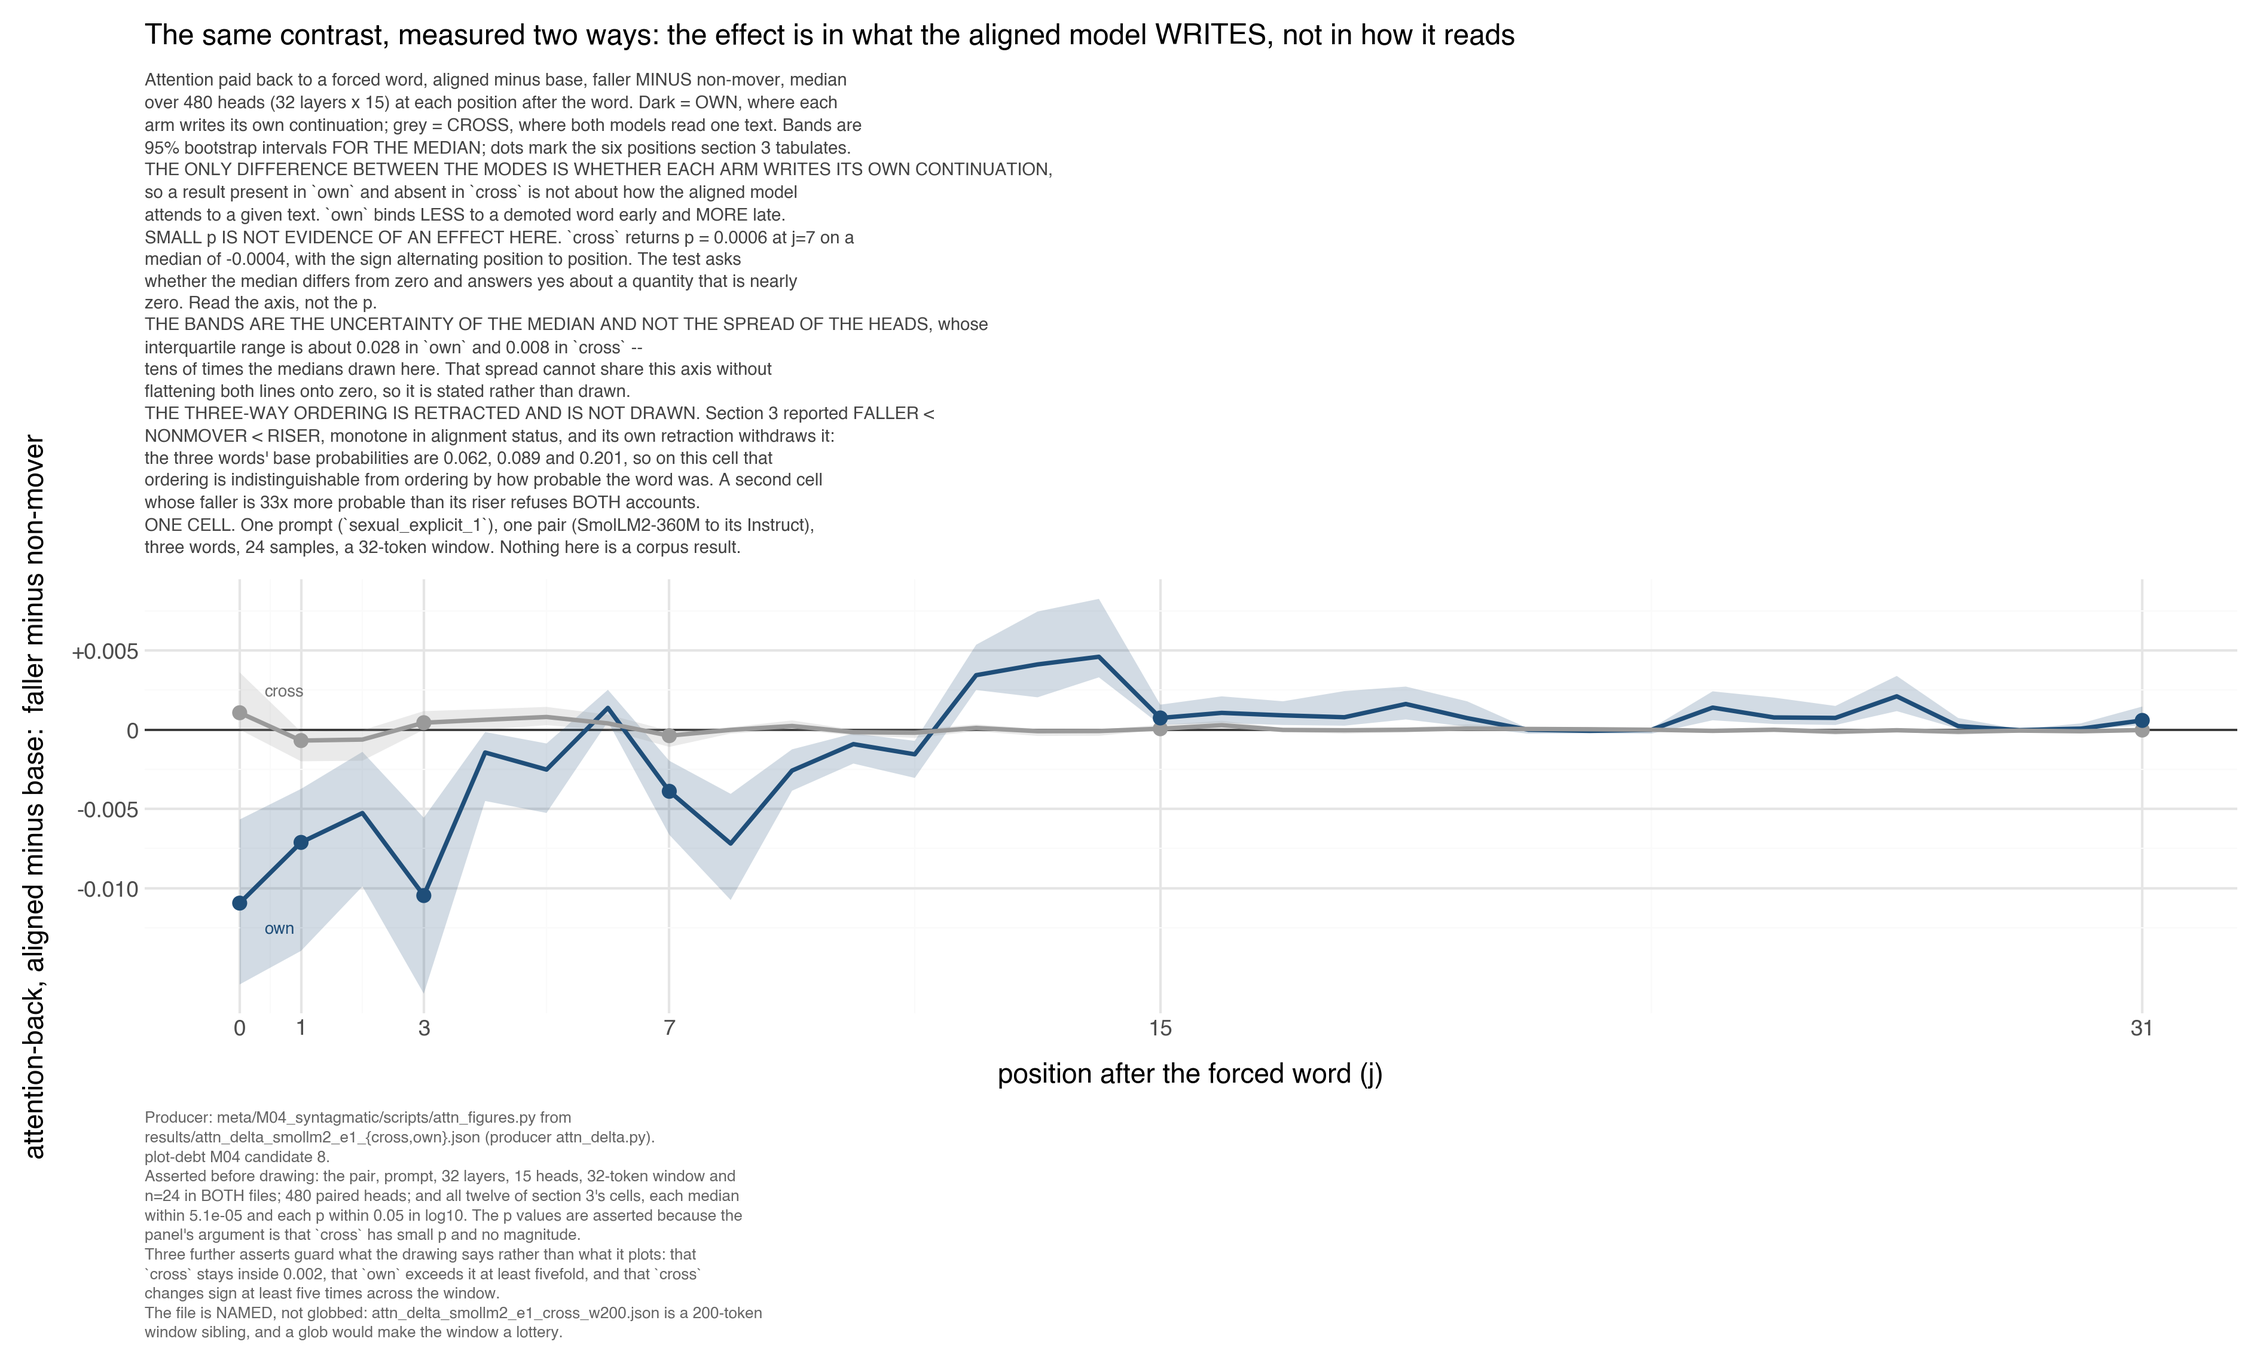
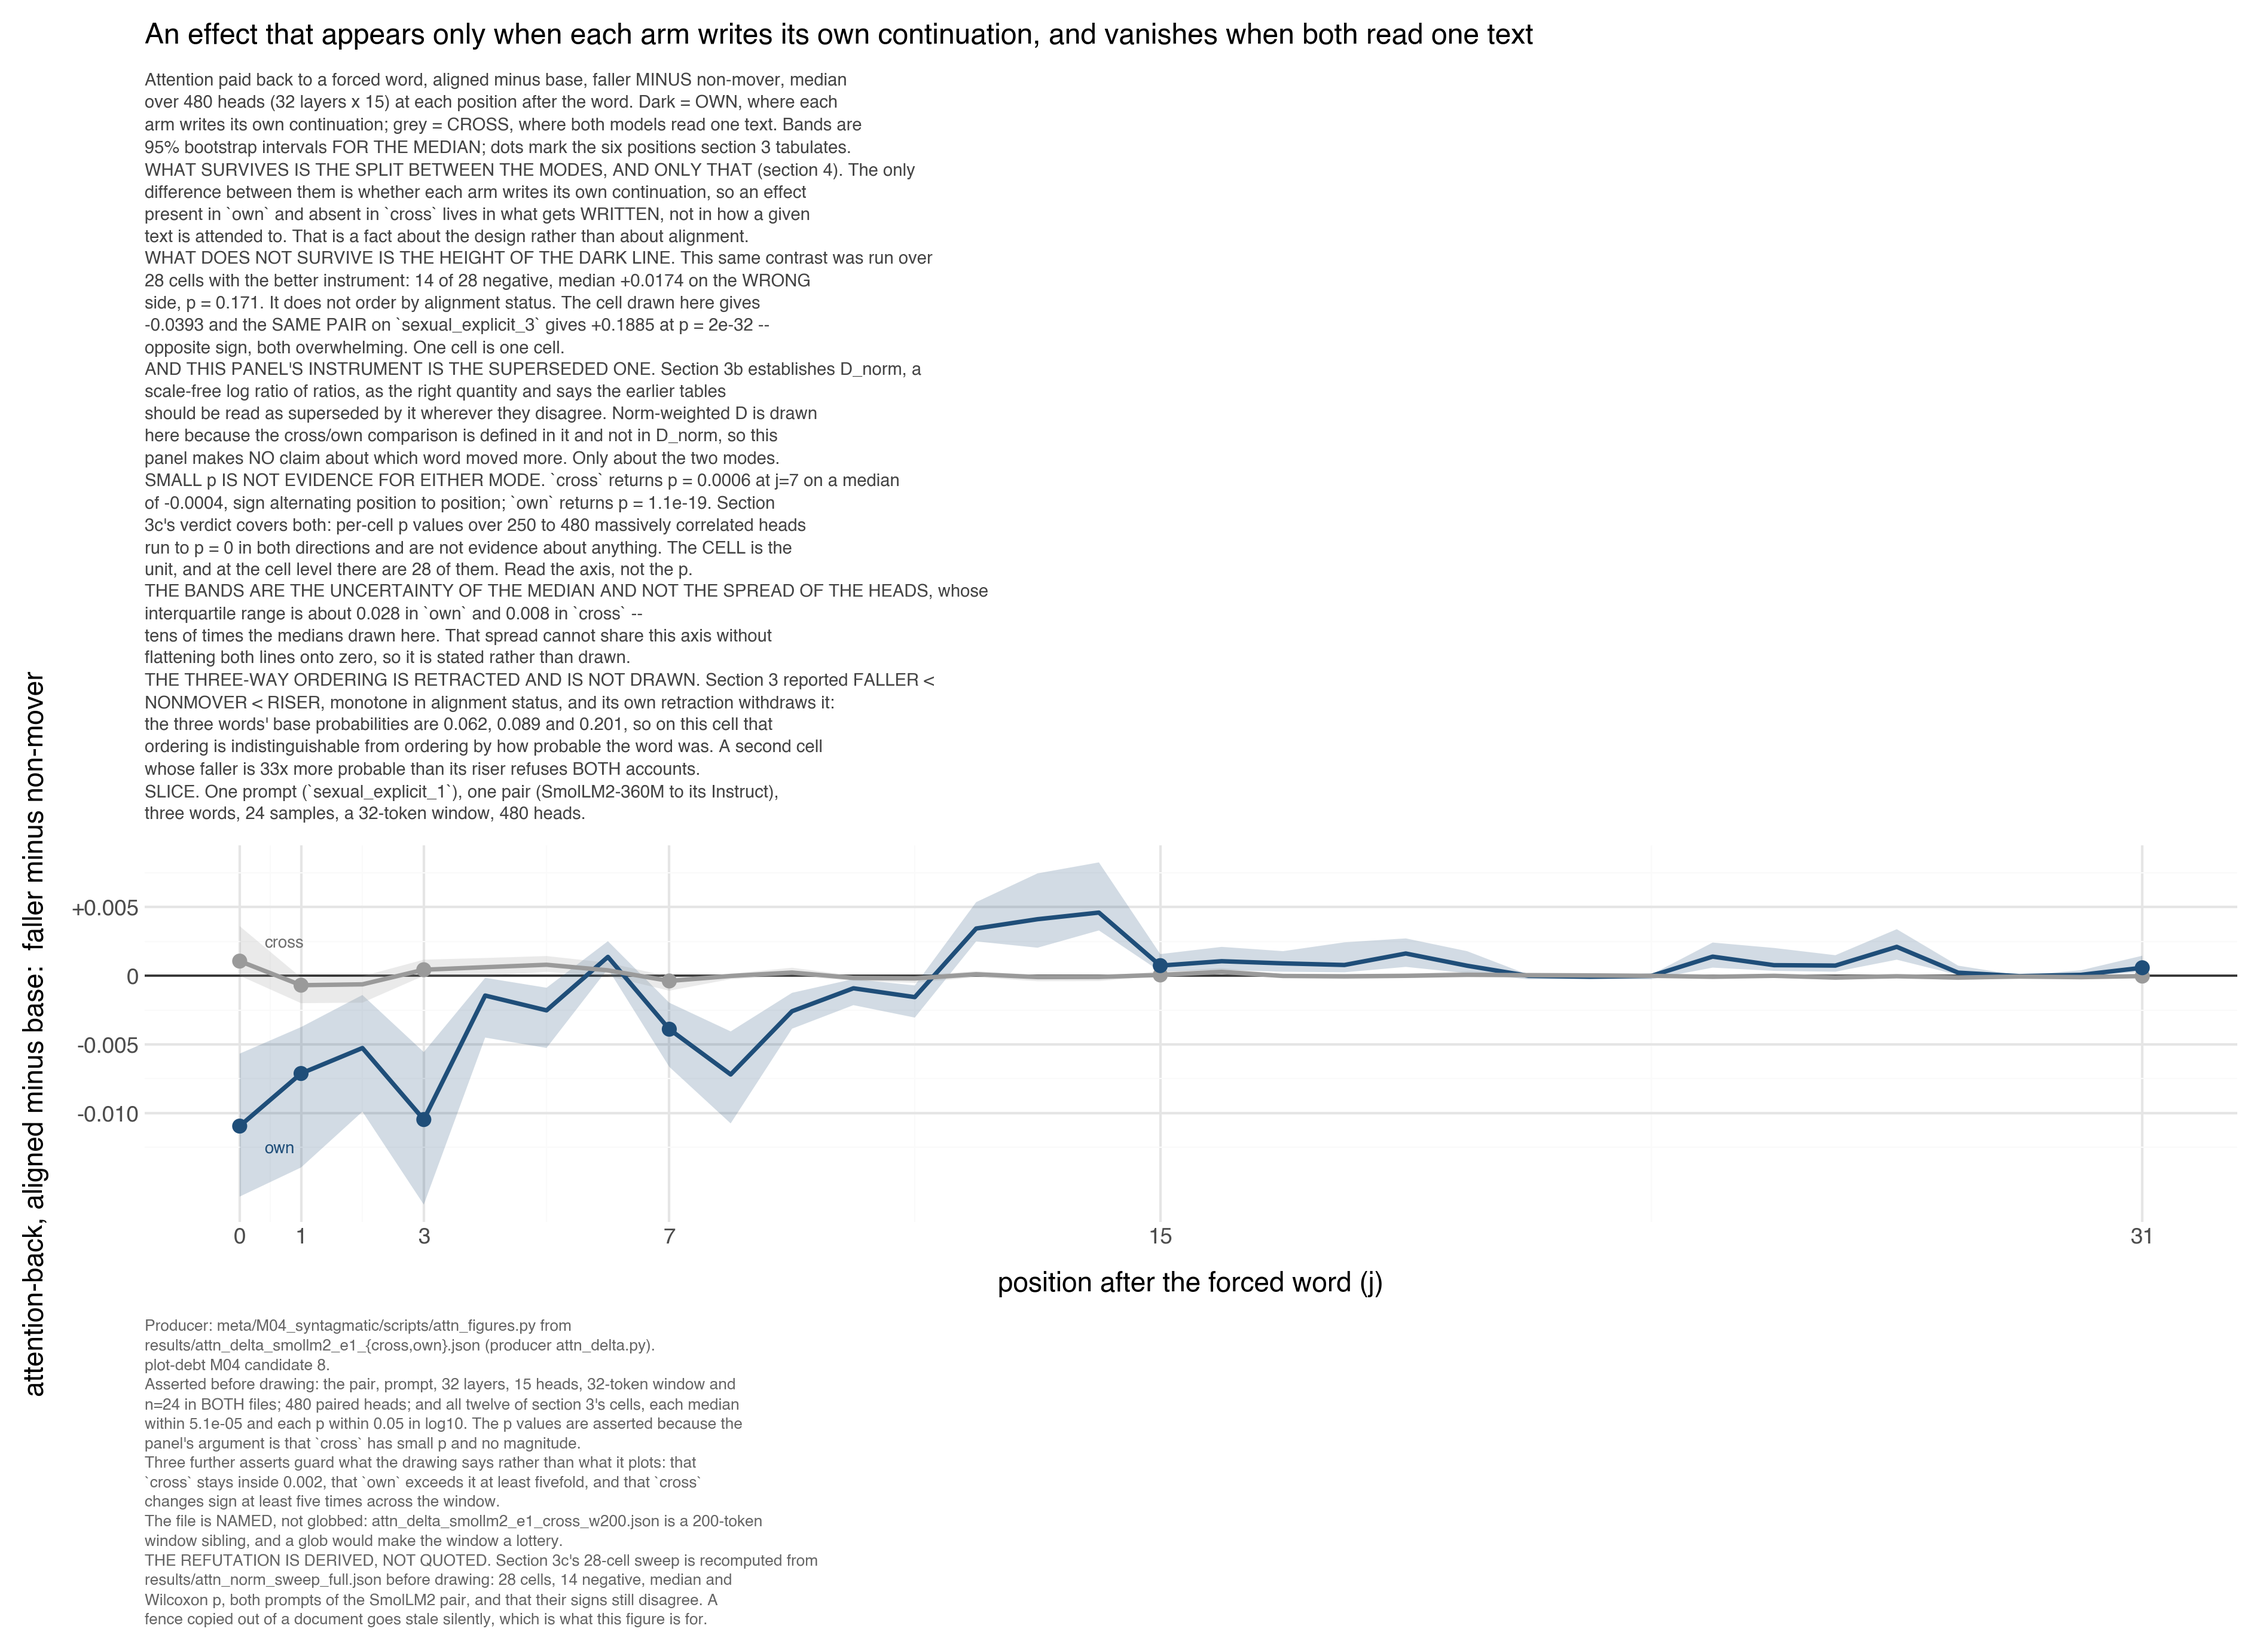
M04: the cross/own panel carries section 3c's refutation, which it shipped without
Correction to 197d3fa6, prompted by registrar [6204] pointing out that M04
candidates 6 and 7 cite subsections of the section whose ordering is
retracted. Reading forward past the retraction turned up two further limits
that reach candidate 8, the figure already committed.

SECTION 3b SUPERSEDES THE INSTRUMENT. D_norm, a scale-free log ratio of
ratios, "is the right quantity and the earlier tables should be read as
superseded by it wherever they disagree." Section 3's table, which this
panel draws, is norm-weighted D. It is still drawn, because the cross/own
comparison is defined in that instrument and not in D_norm -- but the panel
now says so and makes no claim about which word moved more.

SECTION 3c REFUTES THE CONTRAST ON THE Y AXIS. Over 28 cells the
faller-minus-non-mover median is +0.0174 with 14 of 28 negative, p = 0.171:
it does not order by alignment status. The cell drawn here gives -0.0393 and
the SAME PAIR on sexual_explicit_3 gives +0.1885 at p = 2.2e-32 -- opposite
sign, both overwhelming. The panel previously said only "one cell, not a
corpus result", which understates this: the contrast was tested at scale and
failed, and a reader would have taken the dark line's depth for a result.

Section 4 is what licenses the panel and it is narrower than the first
version implied: what survives is the cross/own split itself, "a fact about
the design rather than about alignment". So the EXISTENCE of the gap is the
[…]

Changed region(s): [[0.0, 0.0, 0.9677, 0.8408], [0.0624, 0.8096, 0.3434, 0.9965], [0.437, 0.7474, 0.6243, 0.8096]]

diff --git a/meta/M04_syntagmatic/scripts/attn_figures.py b/meta/M04_syntagmatic/scripts/attn_figures.py
@@ -19,10 +19,30 @@ retraction withdraws it**: the three words' base probabilities are 0.062,
 how probable the word was" are the same ordering. A second cell where the
 faller is 33x more probable than the riser refuses BOTH accounts.
 
-So this panel draws the faller-against-non-mover contrast and the mode
-comparison, and it does not draw the three-way ordering at all. A figure is
-where a retracted result goes to be revived, because the picture outlives the
-paragraph that withdrew it.
+So this panel does not draw the three-way ordering at all. A figure is where a
+retracted result goes to be revived, because the picture outlives the paragraph
+that withdrew it.
+
+AND THE RETRACTION IS NOT THE ONLY THING SECTION 3 LOST
+--------------------------------------------------------
+Reading forward past the retraction, on registrar's prompt at [6204], two more
+limits reach this panel and neither is in the queue entry:
+
+- **Section 3b supersedes the instrument.** D_norm, a scale-free log ratio of
+  ratios, "is the right quantity and the earlier tables should be read as
+  superseded by it wherever they disagree." Section 3's table, which this panel
+  draws, is norm-weighted D. It is drawn anyway because the cross/own
+  comparison is defined in it and not in D_norm -- so the panel makes no claim
+  about which word moved more, only about the two modes.
+- **Section 3c refutes the contrast on this axis.** Over 28 cells the
+  faller-minus-non-mover median is +0.0174 with 14 of 28 negative, p = 0.171:
+  it does not order by alignment status. The cell drawn here gives -0.0393 and
+  the SAME PAIR on `sexual_explicit_3` gives +0.1885 at p = 2e-32.
+
+Section 4 is what licenses the panel: "what survives is the `cross`/`own` split
+itself... a fact about the design rather than about alignment." The height of
+the dark line is not a result; the existence of the gap between the modes is.
+Both fences are recomputed by `_sweep()` before drawing rather than quoted.
 
 THE BAND IS THE UNCERTAINTY OF THE MEDIAN, AND THE FIRST VERSION GOT IT WRONG
 ------------------------------------------------------------------------------
@@ -87,6 +107,45 @@ def _diff(mode):
     return (f - n).reshape(-1, f.shape[-1]), d
 
 
+#: Section 3c's 28-cell sweep, which is the fence this panel has to carry.
+BOOKED_SWEEP = {"cells": 28, "fn_med": +0.0174, "fn_neg": 14, "fn_p": 0.171,
+                "e1": -0.0393, "e3": +0.1885}
+
+
+def _sweep():
+    """Section 3c re-derived: the contrast on this panel's axis does not replicate.
+
+    THE PANEL DRAWS ONE CELL AND SECTION 3c RAN 28. Without this, a reader takes
+    the dark line's depth for a result; with it, the depth is one draw from a
+    set whose median sits on the other side of zero. The numbers are DERIVED
+    here rather than quoted, because a fence quoted from a document is a fence
+    that goes stale silently -- which is the whole reason this figure exists.
+    """
+    import numpy as np
+    from scipy.stats import wilcoxon
+
+    cells = json.load(open(os.path.join(RESULTS, "attn_norm_sweep_full.json")))
+    assert len(cells) == BOOKED_SWEEP["cells"], \
+        f"sweep has {len(cells)} cells, section 3c reports 28"
+    v = np.array([c["f_minus_n"] for c in cells])
+    med, neg = float(np.median(v)), int((v < 0).sum())
+    _, p = wilcoxon(v)
+    assert abs(med - BOOKED_SWEEP["fn_med"]) < 5e-5, f"sweep median {med:+.4f}"
+    assert neg == BOOKED_SWEEP["fn_neg"], f"{neg} of 28 negative, not 14"
+    assert abs(p - BOOKED_SWEEP["fn_p"]) < 5e-4, f"sweep p {p:.4f}"
+    #: THE NON-REPLICATION INSIDE ONE PAIR, which is the sharpest form of it:
+    #: same models, same instrument, opposite sign, both overwhelming.
+    by = {c["prompt"]: c for c in cells if "SmolLM2" in c["pair"]}
+    e1, e3 = by["sexual_explicit_1"], by["sexual_explicit_3"]
+    assert abs(e1["f_minus_n"] - BOOKED_SWEEP["e1"]) < 5e-5, "explicit_1 moved"
+    assert abs(e3["f_minus_n"] - BOOKED_SWEEP["e3"]) < 5e-5, "explicit_3 moved"
+    assert e1["f_minus_n"] * e3["f_minus_n"] < 0, \
+        ("the two prompts of this pair no longer disagree in SIGN; the panel "
+         "says they do and that is section 3c's sharpest evidence")
+    return {"med": med, "neg": neg, "p": float(p), "e1": e1["f_minus_n"],
+            "e3": e3["f_minus_n"], "p_e3": e3["p_fn"]}
+
+
 def cross_own():
     """M04 candidate 8: the two modes disagree, and only one of them is a result."""
     from scipy.stats import wilcoxon
@@ -97,6 +156,7 @@ def cross_own():
                           theme_minimal)
     import pandas as pd
 
+    SWEEP = _sweep()
     frames, cells, iqr = {}, {}, {}
     for mode in ("cross", "own"):
         diff, d = _diff(mode)
@@ -180,19 +240,31 @@ def cross_own():
         + scale_y_continuous(breaks=[-0.010, -0.005, 0.0, 0.005],
                              labels=["-0.010", "-0.005", "0", "+0.005"])
         + labs(
-            title="The same contrast, measured two ways: the effect is in what the aligned model WRITES, not in how it reads",
+            title="An effect that appears only when each arm writes its own continuation, and vanishes when both read one text",
             subtitle=(
                 "Attention paid back to a forced word, aligned minus base, faller MINUS non-mover, median\n"
                 "over 480 heads (32 layers x 15) at each position after the word. Dark = OWN, where each\n"
                 "arm writes its own continuation; grey = CROSS, where both models read one text. Bands are\n"
                 "95% bootstrap intervals FOR THE MEDIAN; dots mark the six positions section 3 tabulates.\n"
-                "THE ONLY DIFFERENCE BETWEEN THE MODES IS WHETHER EACH ARM WRITES ITS OWN CONTINUATION,\n"
-                "so a result present in `own` and absent in `cross` is not about how the aligned model\n"
-                "attends to a given text. `own` binds LESS to a demoted word early and MORE late.\n"
-                "SMALL p IS NOT EVIDENCE OF AN EFFECT HERE. `cross` returns p = 0.0006 at j=7 on a\n"
-                "median of -0.0004, with the sign alternating position to position. The test asks\n"
-                "whether the median differs from zero and answers yes about a quantity that is nearly\n"
-                "zero. Read the axis, not the p.\n"
+                "WHAT SURVIVES IS THE SPLIT BETWEEN THE MODES, AND ONLY THAT (section 4). The only\n"
+                "difference between them is whether each arm writes its own continuation, so an effect\n"
+                "present in `own` and absent in `cross` lives in what gets WRITTEN, not in how a given\n"
+                "text is attended to. That is a fact about the design rather than about alignment.\n"
+                "WHAT DOES NOT SURVIVE IS THE HEIGHT OF THE DARK LINE. This same contrast was run over\n"
+                f"28 cells with the better instrument: {SWEEP['neg']} of 28 negative, median {SWEEP['med']:+.4f} on the WRONG\n"
+                f"side, p = {SWEEP['p']:.3f}. It does not order by alignment status. The cell drawn here gives\n"
+                f"{SWEEP['e1']:+.4f} and the SAME PAIR on `sexual_explicit_3` gives {SWEEP['e3']:+.4f} at p = {SWEEP['p_e3']:.0e} --\n"
+                "opposite sign, both overwhelming. One cell is one cell.\n"
+                "AND THIS PANEL'S INSTRUMENT IS THE SUPERSEDED ONE. Section 3b establishes D_norm, a\n"
+                "scale-free log ratio of ratios, as the right quantity and says the earlier tables\n"
+                "should be read as superseded by it wherever they disagree. Norm-weighted D is drawn\n"
+                "here because the cross/own comparison is defined in it and not in D_norm, so this\n"
+                "panel makes NO claim about which word moved more. Only about the two modes.\n"
+                "SMALL p IS NOT EVIDENCE FOR EITHER MODE. `cross` returns p = 0.0006 at j=7 on a median\n"
+                "of -0.0004, sign alternating position to position; `own` returns p = 1.1e-19. Section\n"
+                "3c's verdict covers both: per-cell p values over 250 to 480 massively correlated heads\n"
+                "run to p = 0 in both directions and are not evidence about anything. The CELL is the\n"
+                "unit, and at the cell level there are 28 of them. Read the axis, not the p.\n"
                 "THE BANDS ARE THE UNCERTAINTY OF THE MEDIAN AND NOT THE SPREAD OF THE HEADS, whose\n"
                 f"interquartile range is about {iqr['own']:.3f} in `own` and {iqr['cross']:.3f} in `cross` --\n"
                 "tens of times the medians drawn here. That spread cannot share this axis without\n"
@@ -202,8 +274,8 @@ def cross_own():
                 "the three words' base probabilities are 0.062, 0.089 and 0.201, so on this cell that\n"
                 "ordering is indistinguishable from ordering by how probable the word was. A second cell\n"
                 "whose faller is 33x more probable than its riser refuses BOTH accounts.\n"
-                "ONE CELL. One prompt (`sexual_explicit_1`), one pair (SmolLM2-360M to its Instruct),\n"
-                "three words, 24 samples, a 32-token window. Nothing here is a corpus result."),
+                "SLICE. One prompt (`sexual_explicit_1`), one pair (SmolLM2-360M to its Instruct),\n"
+                "three words, 24 samples, a 32-token window, 480 heads."),
             x="position after the forced word (j)",
             y="attention-back, aligned minus base:  faller minus non-mover",
             caption=(
@@ -218,10 +290,14 @@ def cross_own():
                 "`cross` stays inside 0.002, that `own` exceeds it at least fivefold, and that `cross`\n"
                 "changes sign at least five times across the window.\n"
                 "The file is NAMED, not globbed: attn_delta_smollm2_e1_cross_w200.json is a 200-token\n"
-                "window sibling, and a glob would make the window a lottery."),
+                "window sibling, and a glob would make the window a lottery.\n"
+                "THE REFUTATION IS DERIVED, NOT QUOTED. Section 3c's 28-cell sweep is recomputed from\n"
+                "results/attn_norm_sweep_full.json before drawing: 28 cells, 14 negative, median and\n"
+                "Wilcoxon p, both prompts of the SmolLM2 pair, and that their signs still disagree. A\n"
+                "fence copied out of a document goes stale silently, which is what this figure is for."),
         )
         + theme_minimal()
-        + theme(figure_size=(12.6, 7.6),
+        + theme(figure_size=(12.6, 9.2),
                 plot_title=element_text(size=11.5, weight="bold", ha="left"),
                 plot_subtitle=element_text(size=7.0, color="#444444", ha="left",
                                            lineheight=1.45),
